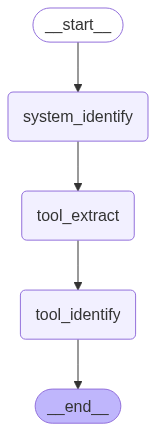
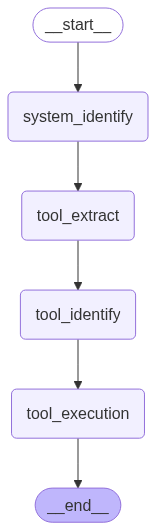
tool Execution added

diff --git a/SolutionCenter/llmTools/graphNodes.py b/SolutionCenter/llmTools/graphNodes.py
@@ -59,4 +59,37 @@ def tool_identify_node(state):
     response = chain.invoke({"messages": messages})  # Pass the whole list of Messages
 
     print(f"TOOL_IDENTIFY node output: {response}")
-    return response  # Return the final response from the tool identification chain
+
+    # Extract JUST the tool name (You'll need to adjust this based on your LLM's output format)
+    # Assuming the LLM returns something like "Tool: CreditCardStatus"
+    full_response = response.content
+    if "**" in full_response:
+        tool_name = full_response.split("**")[1]  # Extract text between the **
+    else:
+        tool_name = full_response  # if no ** just return the full response
+
+    tool_name = tool_name.strip()  # Remove any extra spaces
+
+    return [AIMessage(content=tool_name)]  # Return a LIST containing the tool name
+
+
+def tool_execution_node(state):
+    print("Entering TOOL_EXECUTION node")
+    tool_name = state[-1].content  # Get the identified tool name
+    print(f"tool_name :{tool_name}")
+    # Find the tool in the System_Map
+    for system_name, system in System_Map.items():
+        tool = system.get_tool(tool_name)  # Assuming you have a get_tool method
+        if tool:
+            break
+    else:
+        raise ValueError(f"Tool '{tool_name}' not found in System_Map.")
+
+    # Execute the tool
+    try:
+        result = tool.execute()
+        print(f"Tool '{tool_name}' executed successfully.")
+    except Exception as e:
+        return f"Error executing tool '{tool_name}': {e}"
+
+    return result  # Pass the result

diff --git a/SolutionCenter/llmTools/graphExecutor.py b/SolutionCenter/llmTools/graphExecutor.py
@@ -2,7 +2,7 @@ from dotenv import load_dotenv
 from langchain_core.messages import HumanMessage, AIMessage
 from langgraph.graph import MessageGraph
 
-from SolutionCenter.llmTools.graphNodes import system_node, tool_extract_node, tool_identify_node
+from SolutionCenter.llmTools.graphNodes import system_node, tool_extract_node, tool_identify_node, tool_execution_node
 
 load_dotenv()
 
@@ -11,14 +11,17 @@ graph = MessageGraph()
 SYSTEM_IDENTIFY = "system_identify"  # Rename for clarity
 TOOL_EXTRACT = "tool_extract"
 TOOL_IDENTIFY = "tool_identify"
+TOOL_EXECUTION= "tool_execution"
 # Add the nodes to the graph
 graph.add_node(SYSTEM_IDENTIFY, system_node)
 graph.add_node(TOOL_EXTRACT, tool_extract_node)
 graph.add_node(TOOL_IDENTIFY, tool_identify_node)
+graph.add_node(TOOL_EXECUTION,tool_execution_node)
 
 # Define the edges
 graph.add_edge(SYSTEM_IDENTIFY, TOOL_EXTRACT)
 graph.add_edge(TOOL_EXTRACT, TOOL_IDENTIFY)
+graph.add_edge(TOOL_IDENTIFY,TOOL_EXECUTION)
 
 graph.set_entry_point(SYSTEM_IDENTIFY)  # Start at the system identification node
 
